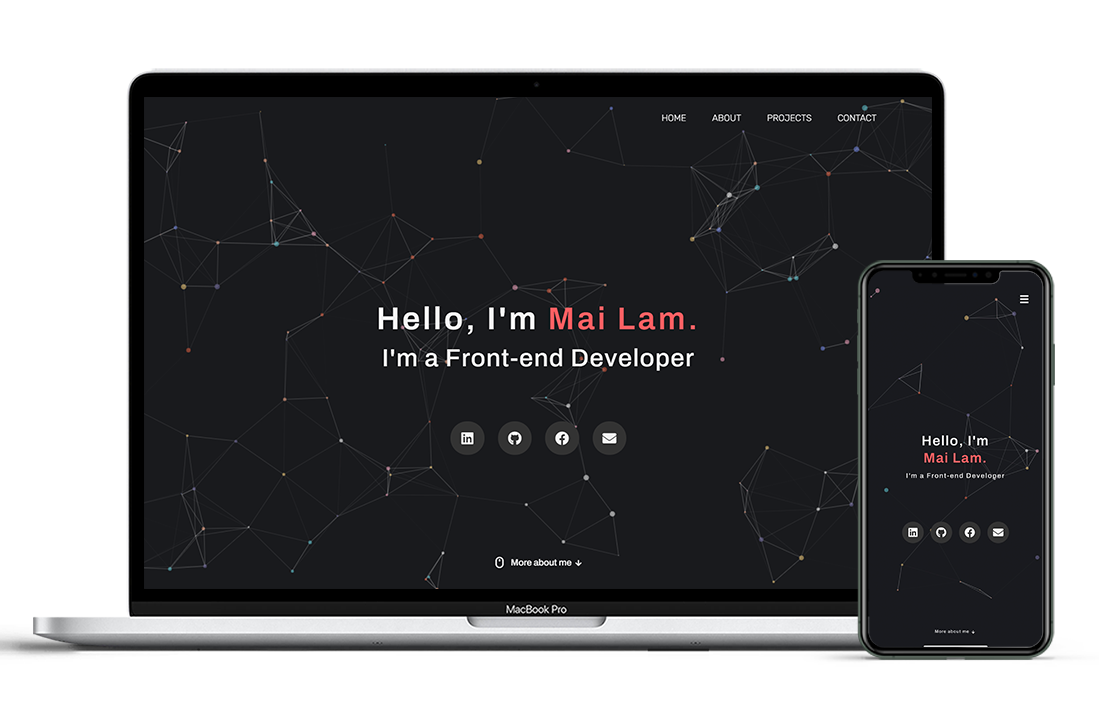
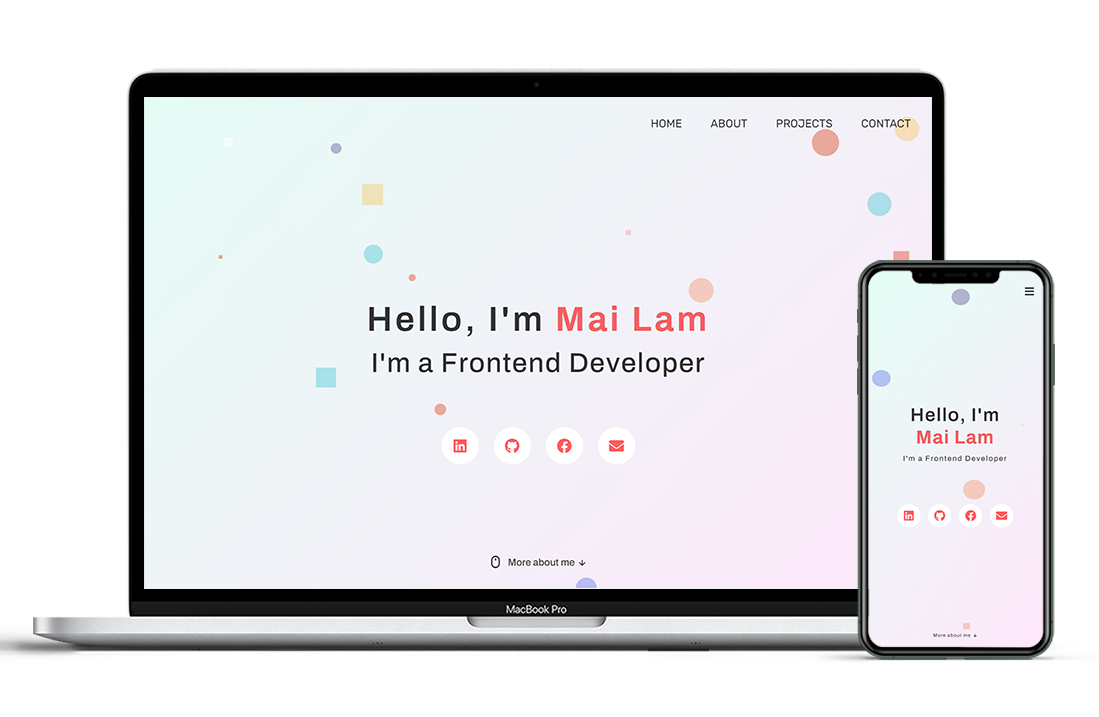
commit

diff --git a/assets/js/particles.js b/assets/js/particles.js
@@ -365,7 +365,7 @@ var pJS = function(tag_id, params){
 
     
 
-    /* if shape is image */
+    /* if shape is object */
 
     var shape_type = pJS.particles.shape.type;
     if(typeof(shape_type) == 'object'){
@@ -376,24 +376,6 @@ var pJS = function(tag_id, params){
     }else{
       this.shape = shape_type;
     }
-
-    if(this.shape == 'image'){
-      var sh = pJS.particles.shape;
-      this.img = {
-        src: sh.image.src,
-        ratio: sh.image.width / sh.image.height
-      }
-      if(!this.img.ratio) this.img.ratio = 1;
-      if(pJS.tmp.img_type == 'svg' && pJS.tmp.source_svg != undefined){
-        pJS.fn.vendors.createSvgImg(this);
-        if(pJS.tmp.pushing){
-          this.img.loaded = false;
-        }
-      }
-    }
-
-    
-
   };
 
 
@@ -509,14 +491,6 @@ var pJS = function(tag_id, params){
 
       /* the particle */
       var p = pJS.particles.array[i];
-
-      // var d = ( dx = pJS.interactivity.mouse.click_pos_x - p.x ) * dx + ( dy = pJS.interactivity.mouse.click_pos_y - p.y ) * dy;
-      // var f = -BANG_SIZE / d;
-      // if ( d < BANG_SIZE ) {
-      //     var t = Math.atan2( dy, dx );
-      //     p.vx = f * Math.cos(t);
-      //     p.vy = f * Math.sin(t);
-      // }
 
       /* move the particle */
       if(pJS.particles.move.enable){
@@ -675,59 +649,13 @@ var pJS = function(tag_id, params){
 
   pJS.fn.interact.linkParticles = function(p1, p2){
 
-    var dx = p1.x - p2.x,
+  var dx = p1.x - p2.x,
         dy = p1.y - p2.y,
         dist = Math.sqrt(dx*dx + dy*dy);
-
-    /* draw a line between p1 and p2 if the distance between them is under the config distance */
-    if(dist <= pJS.particles.line_linked.distance){
-
-      var opacity_line = pJS.particles.line_linked.opacity - (dist / (1/pJS.particles.line_linked.opacity)) / pJS.particles.line_linked.distance;
-
-      if(opacity_line > 0){        
-        
-        /* style */
-        var color_line = pJS.particles.line_linked.color_rgb_line;
-        pJS.canvas.ctx.strokeStyle = 'rgba('+color_line.r+','+color_line.g+','+color_line.b+','+opacity_line+')';
-        pJS.canvas.ctx.lineWidth = pJS.particles.line_linked.width;
-        //pJS.canvas.ctx.lineCap = 'round'; /* performance issue */
-        
-        /* path */
-        pJS.canvas.ctx.beginPath();
-        pJS.canvas.ctx.moveTo(p1.x, p1.y);
-        pJS.canvas.ctx.lineTo(p2.x, p2.y);
-        pJS.canvas.ctx.stroke();
-        pJS.canvas.ctx.closePath();
-
-      }
-
-    }
-
   };
 
 
-  pJS.fn.interact.attractParticles  = function(p1, p2){
 
-    /* condensed particles */
-    var dx = p1.x - p2.x,
-        dy = p1.y - p2.y,
-        dist = Math.sqrt(dx*dx + dy*dy);
-
-    if(dist <= pJS.particles.line_linked.distance){
-
-      var ax = dx/(pJS.particles.move.attract.rotateX*1000),
-          ay = dy/(pJS.particles.move.attract.rotateY*1000);
-
-      p1.vx -= ax;
-      p1.vy -= ay;
-
-      p2.vx += ax;
-      p2.vy += ay;
-
-    }
-    
-
-  }
 
 
   pJS.fn.interact.bounceParticles = function(p1, p2){
@@ -857,66 +785,6 @@ var pJS = function(tag_id, params){
     
     }
 
-    /* on click event */
-    else if(pJS.interactivity.events.onclick.enable && isInArray('bubble', pJS.interactivity.events.onclick.mode)){
-
-
-      if(pJS.tmp.bubble_clicking){
-        var dx_mouse = p.x - pJS.interactivity.mouse.click_pos_x,
-            dy_mouse = p.y - pJS.interactivity.mouse.click_pos_y,
-            dist_mouse = Math.sqrt(dx_mouse*dx_mouse + dy_mouse*dy_mouse),
-            time_spent = (new Date().getTime() - pJS.interactivity.mouse.click_time)/1000;
-
-        if(time_spent > pJS.interactivity.modes.bubble.duration){
-          pJS.tmp.bubble_duration_end = true;
-        }
-
-        if(time_spent > pJS.interactivity.modes.bubble.duration*2){
-          pJS.tmp.bubble_clicking = false;
-          pJS.tmp.bubble_duration_end = false;
-        }
-      }
-
-
-      function process(bubble_param, particles_param, p_obj_bubble, p_obj, id){
-
-        if(bubble_param != particles_param){
-
-          if(!pJS.tmp.bubble_duration_end){
-            if(dist_mouse <= pJS.interactivity.modes.bubble.distance){
-              if(p_obj_bubble != undefined) var obj = p_obj_bubble;
-              else var obj = p_obj;
-              if(obj != bubble_param){
-                var value = p_obj - (time_spent * (p_obj - bubble_param) / pJS.interactivity.modes.bubble.duration);
-                if(id == 'size') p.radius_bubble = value;
-                if(id == 'opacity') p.opacity_bubble = value;
-              }
-            }else{
-              if(id == 'size') p.radius_bubble = undefined;
-              if(id == 'opacity') p.opacity_bubble = undefined;
-            }
-          }else{
-            if(p_obj_bubble != undefined){
-              var value_tmp = p_obj - (time_spent * (p_obj - bubble_param) / pJS.interactivity.modes.bubble.duration),
-                  dif = bubble_param - value_tmp;
-                  value = bubble_param + dif;
-              if(id == 'size') p.radius_bubble = value;
-              if(id == 'opacity') p.opacity_bubble = value;
-            }
-          }
-
-        }
-
-      }
-
-      if(pJS.tmp.bubble_clicking){
-        /* size */
-        process(pJS.interactivity.modes.bubble.size, pJS.particles.size.value, p.radius_bubble, p.radius, 'size');
-        /* opacity */
-        process(pJS.interactivity.modes.bubble.opacity, pJS.particles.opacity.value, p.opacity_bubble, p.opacity, 'opacity');
-      }
-
-    }
 
   };
 
@@ -1107,56 +975,6 @@ var pJS = function(tag_id, params){
 
     }
 
-    /* on click event */
-    if(pJS.interactivity.events.onclick.enable){
-
-      pJS.interactivity.el.addEventListener('click', function(){
-
-        pJS.interactivity.mouse.click_pos_x = pJS.interactivity.mouse.pos_x;
-        pJS.interactivity.mouse.click_pos_y = pJS.interactivity.mouse.pos_y;
-        pJS.interactivity.mouse.click_time = new Date().getTime();
-
-        if(pJS.interactivity.events.onclick.enable){
-
-          switch(pJS.interactivity.events.onclick.mode){
-
-            case 'push':
-              if(pJS.particles.move.enable){
-                pJS.fn.modes.pushParticles(pJS.interactivity.modes.push.particles_nb, pJS.interactivity.mouse);
-              }else{
-                if(pJS.interactivity.modes.push.particles_nb == 1){
-                  pJS.fn.modes.pushParticles(pJS.interactivity.modes.push.particles_nb, pJS.interactivity.mouse);
-                }
-                else if(pJS.interactivity.modes.push.particles_nb > 1){
-                  pJS.fn.modes.pushParticles(pJS.interactivity.modes.push.particles_nb);
-                }
-              }
-            break;
-
-            case 'remove':
-              pJS.fn.modes.removeParticles(pJS.interactivity.modes.remove.particles_nb);
-            break;
-
-            case 'bubble':
-              pJS.tmp.bubble_clicking = true;
-            break;
-
-            case 'repulse':
-              pJS.tmp.repulse_clicking = true;
-              pJS.tmp.repulse_count = 0;
-              pJS.tmp.repulse_finish = false;
-              setTimeout(function(){
-                pJS.tmp.repulse_clicking = false;
-              }, pJS.interactivity.modes.repulse.duration*1000)
-            break;
-
-          }
-
-        }
-
-      });
-        
-    }
 
 
   };

diff --git a/index.html b/index.html
@@ -127,7 +127,7 @@
                             </div>
                             <div class="about__information-summary col l-5 c-12">
                                 <h4 class="about__information-title"> Summary</h4>
-                                <p>Hi, My name is Mai. I’m currently studying in my final year of a Information Technology degree. I am interested in website design, create smart user interface, frontend web development. Now I am looking for Frontend Developer Intern opportunity to participate in projects and improve my skills.</p>
+                                <p>Hi, My name is Mai. I’m currently studying in my final year of a Information Technology degree. I am passionate about website design, create smart user interface, frontend web development. Now I am looking for Frontend Developer Intern opportunity to participate in projects and improve my skills.</p>
                                 <a href="" class="btn button__downloadcv">
                                     <i class="fas fa-download"></i>
                                     My CV
@@ -221,7 +221,7 @@
                         <div class="project-item__info col l-6 c-12">
                             <h3 class="project-name">My Portfolio Website</h3>
                             <p class="project-description">
-                                Lorem ipsum dolor sit amet, consectetur adipiscing elit, sed do eiusmod tempor incididunt ut labore et dolore magna aliqua. Ut enim ad minim veniam, quis nostrud exercitation ullamco laboris nisi ut aliquip ex ea.
+                                I built all the pages you're looking at now using HTML, CSS and JavaScript.
                             </p>
                             <ul class="project-tech-list">
                                 <li class="tag">HTML</li>
@@ -229,7 +229,7 @@
                                 <li class="tag">JavaScript</li>
                             </ul>
                             <div class="project-link">
-                                <a href="https://github.com/mailamdev/mailamdev.github.io" class=" btn project-link-github">View code</a>
+                                <a href="https://github.com/mailamdev/mailamdev.github.io" class=" btn project-link-github" target="_blank">View code</a>
                             </div>
                         </div>
                     </div>
@@ -241,14 +241,14 @@
                         <div class="project-item__info col l-6 c-12">
                             <h3 class="project-name">Shopee Store</h3>
                             <p class="project-description">
-                                Site is built from HTML, CSS and cloned design from shopee.vn.
+                                I built this website after finishing the HTML/CSS basics course. Site is cloned design from shopee.vn.
                             </p>
                             <ul class="project-tech-list">
                                 <li class="tag">HTML</li>
                                 <li class="tag">CSS</li>
                             </ul>
                             <div class="project-link">
-                                <a href="https://github.com/mailam2120/ShopeeDemo" class=" btn project-link-github">View code</a>
+                                <a href="https://github.com/mailam2120/ShopeeDemo" class=" btn project-link-github" target="_blank">View code</a>
                             </div>
                         </div>
                     </div>

diff --git a/assets/js/app.js b/assets/js/app.js
@@ -27,18 +27,6 @@ particlesJS('particles-js',
       },
       "shape": {
         "type": ["circle", "edge"], 
-        "stroke": {
-          "width": 0,
-          "color": "#000000"
-        },
-        "polygon": {
-          "nb_sides": 5
-        },
-        "image": {
-          "src": "img/github.svg",
-          "width": 100,
-          "height": 100
-        }
       },
       "opacity": {
         "value": 0.5,
@@ -60,13 +48,6 @@ particlesJS('particles-js',
           "sync": false
         }
       },
-      "line_linked": {
-        "enable": false,
-        "distance": 150,
-        "color": "#000",
-        "opacity": 0.4,
-        "width": 1
-      },
       "move": {
         "enable": true,
         "speed": 6,
@@ -87,10 +68,6 @@ particlesJS('particles-js',
         "onhover": {
           "enable": true,
           "mode": "repulse"
-        },
-        "onclick": {
-          "enable": true,
-          "mode": "push"
         },
         "resize": true
       },

diff --git a/assets/css/main.css b/assets/css/main.css
@@ -1,6 +1,3 @@
-#main {
-  overflow-x: hidden;
-}
 
 #home {
   background-image: linear-gradient(-225deg, #E3FDF5 0%, #FFE6FA 100%);
@@ -253,7 +250,7 @@ h3.heading {
   font-size:1.4rem;
   margin-bottom: 20px;
   color: var(--primary-color);
-  letter-spacing: 1.5px;
+  letter-spacing: 1.75px;
   margin-right: -4px;
   position: relative;
   display: block;
@@ -276,6 +273,8 @@ h3.heading {
   padding-bottom: 1rem;
   text-align: justify;
   font-weight: 300;
+  letter-spacing: 0.75px;
+
 }
 
 .button__downloadcv {
